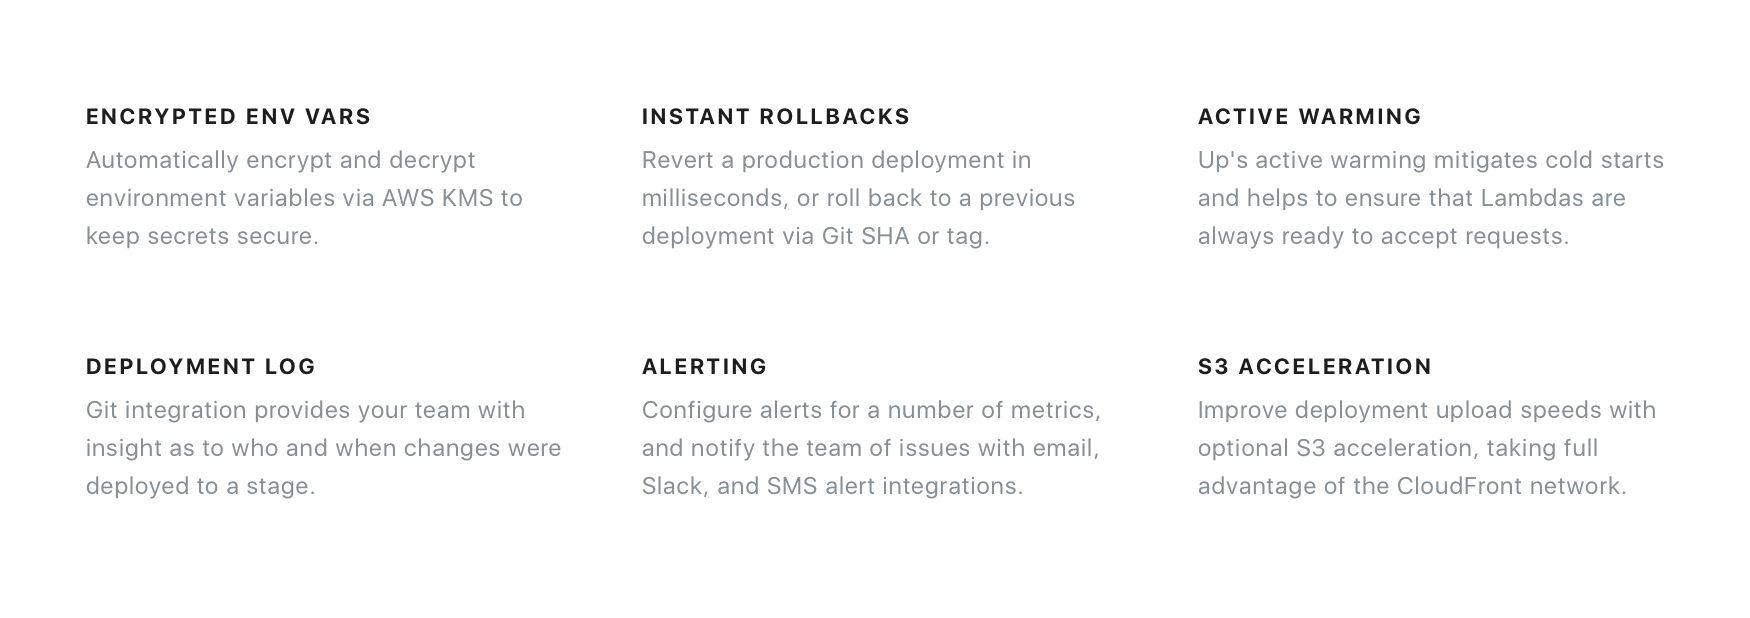
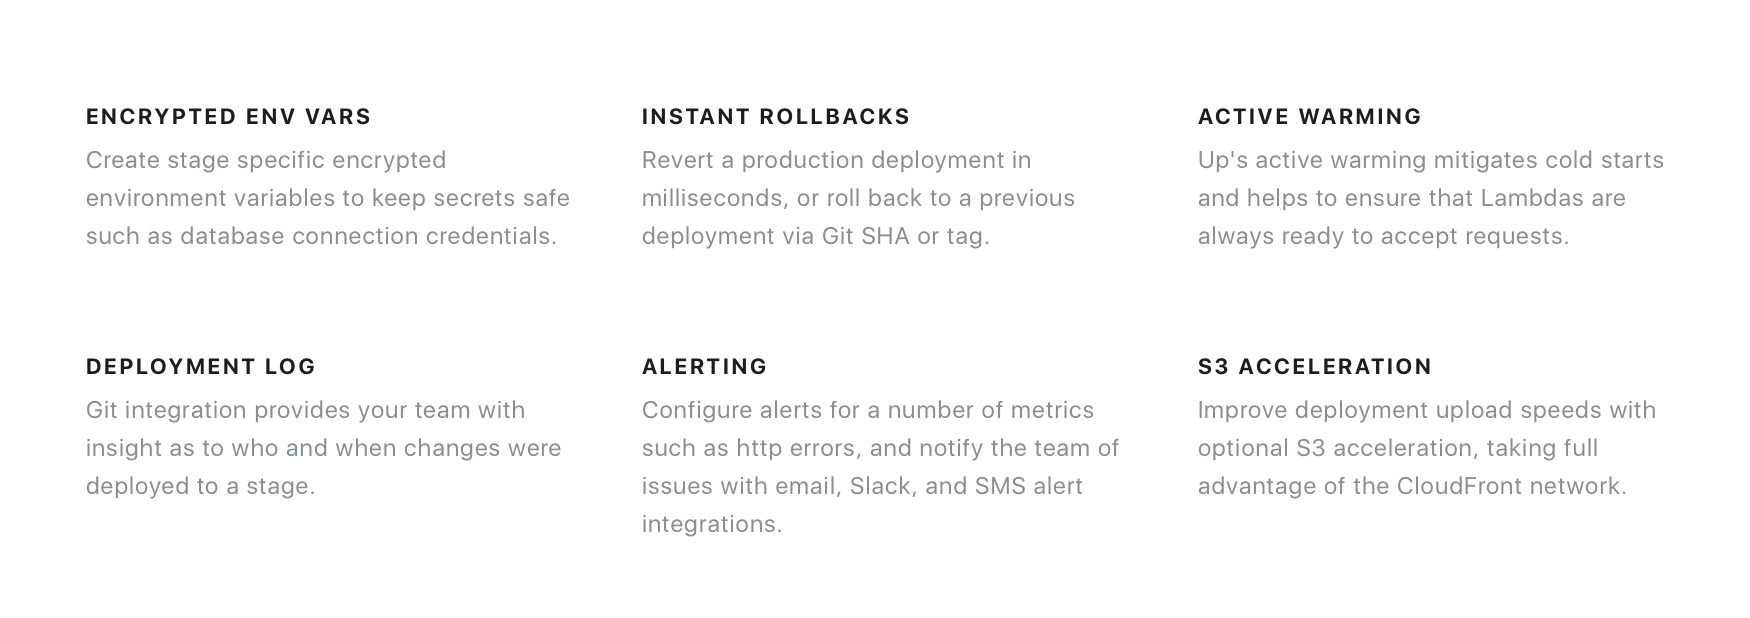
docs: tweak pro grid again

diff --git a/Readme.md b/Readme.md
@@ -24,7 +24,7 @@ Features of the free open-source edition.
 
 ## Pro Features
 
-Up Pro is **$20/mo USD** for unlimited use within your company. While in development, you may use the `up-early-adopter-325BFABFAFF7` coupon for 50% off forever. Head over to [Subscribing to Up Pro](https://up.docs.apex.sh/#guides.subscribing_to_up_pro) to get started.
+Up Pro provides additional features for production-ready applications such as encrypted environment variables and error alerting, for **$20/mo USD** (`up-early-adopter-325BFABFAFF7` for 50% off). Visit [Subscribing to Up Pro](https://up.docs.apex.sh/#guides.subscribing_to_up_pro) to get started.
 
 ![Pro edition features](assets/features-pro.png)
 
